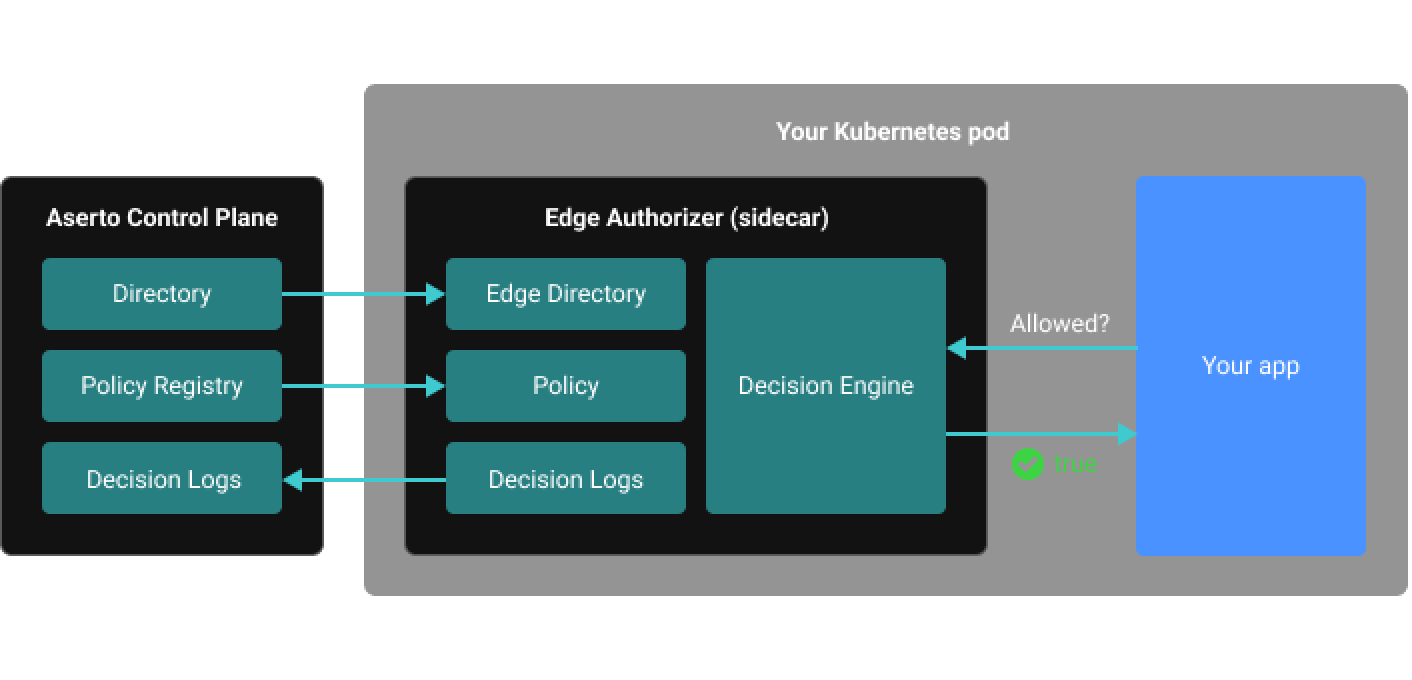
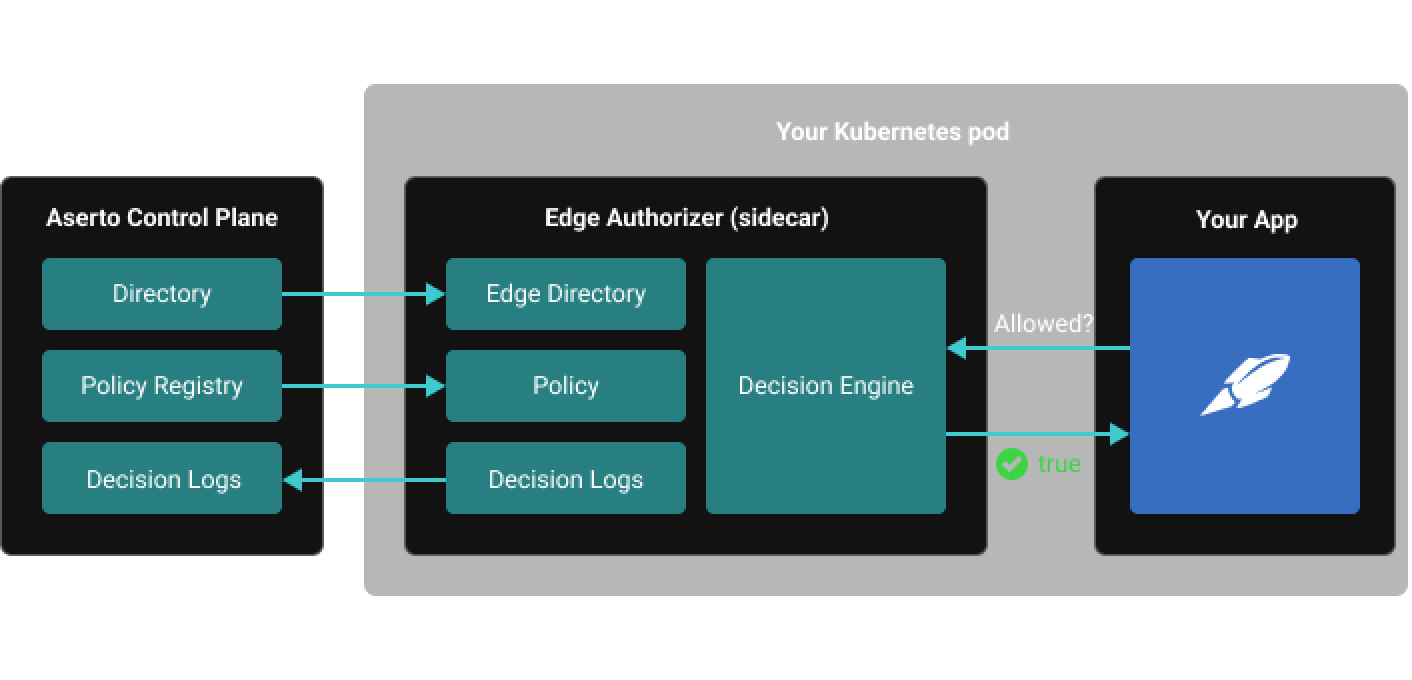
fix display/resizing issues

diff --git a/src/components/sections/homepage/intro2/index.tsx b/src/components/sections/homepage/intro2/index.tsx
@@ -1,3 +1,4 @@
+import Link from 'components/primitives/link'
 import Container from '../container'
 import CodeBrowser from './code-browser.tsx'
 
@@ -8,91 +9,125 @@ const Intro = () => {
         Powerful authorization-as-a-service,
         <br /> built to evolve with your customer requirements.
       </h1>
-      <div className="flex flex-col md:flex-row justify-evenly mb-40 md:mb-72">
-        <div className="md:translate-y-1/3 mb-8">
-          <p className="text-[20px] font-semibold text-center md:text-left mx-4">
-            Zero-to-RBAC in under a day <br />
+      <div className="relative flex flex-col md:flex-row justify-evenly mb-40 md:mb-72 text-[20px] font-semibold">
+        <div className="-z-10 hidden md:block absolute right-0 -top-1/4 w-[500px] h-[500px] bg-homepageGlow"></div>
+        <div className="text-center md:text-left md:translate-y-1/3 mb-8 mx-4">
+          <p>
+            Zero-to-RBAC in under a day <br className="hidden md:block" />
             for any language or framework.
           </p>
+          <Link
+            className="text-aserto-lochivar-accent-40 hover:underline"
+            href="/benefits"
+          >
+            {`Learn more >`}
+          </Link>
         </div>
         <div className="relative">
-          <div className="-z-10 hidden md:block absolute right-1/4 -top-1/4 w-[500px] h-[500px] bg-homepageGlow"></div>
           <CodeBrowser />
         </div>
       </div>
-      <div className="flex flex-col md:flex-row justify-evenly mb-40 md:mb-72">
-        <div className="md:order-2 md:translate-y-1/3 mb-8">
-          <p className="text-[20px] font-semibold text-center md:text-left mx-4">
-            Scale up to enterprise requirements with <br />
-            deep IDP integration, ABAC, fine-grained <br />
+      <div className="relative flex flex-col md:flex-row justify-evenly mb-40 md:mb-72 text-[20px] font-semibold">
+        <div className="-z-10 hidden md:block absolute left-0 -top-1/4 w-[500px] h-[500px] bg-homepageGlow"></div>
+        <div className="text-center md:text-left md:order-2 md:translate-y-1/3 mb-8 mx-4">
+          <p>
+            Scale up to enterprise requirements with{' '}
+            <br className="hidden md:block" />
+            deep IDP integration, ABAC, fine-grained{' '}
+            <br className="hidden md:block" />
             access control, audit trails, and custom roles.
           </p>
+          <Link
+            className="text-aserto-lochivar-accent-40 hover:underline"
+            href="/benefits"
+          >
+            {`Learn more >`}
+          </Link>
         </div>
         <div className="relative md:order-1">
-          <div className="-z-10 hidden md:block absolute left-1/4 -top-1/4 w-[500px] h-[500px] bg-homepageGlow"></div>
-          <img
-            className="relative w-[700px]"
-            src="images/homepage/elastic-rego.png"
-          />
+          <img className="w-[700px]" src="images/homepage/elastic-rego.png" />
         </div>
       </div>
-      <div className="flex flex-col md:flex-row justify-evenly mb-40 md:mb-72">
-        <div className="md:translate-y-1/3 mb-8">
-          <p className="text-[20px] font-semibold text-center md:text-left mx-4">
-            Deploy the authorizer as a sidecar or <br />
-            microservice in your cloud, providing <br />
+      <div className="relative flex flex-col md:flex-row justify-evenly mb-40 md:mb-72 text-[20px] font-semibold">
+        <div className="-z-10 hidden md:block absolute right-0 -top-1/4 w-[500px] h-[500px] bg-homepageGlow"></div>
+        <div className="text-center md:text-left md:translate-y-1/3 mb-8 mx-4">
+          <p>
+            Deploy the authorizer as a sidecar or{' '}
+            <br className="hidden md:block" />
+            microservice in your cloud, providing{' '}
+            <br className="hidden md:block" />
             millisecond latency and 100% availability.
           </p>
+          <Link
+            className="text-aserto-lochivar-accent-40 hover:underline"
+            href="/benefits"
+          >
+            {`Learn more >`}
+          </Link>
         </div>
         <div className="relative">
-          <div className="-z-10 hidden md:block absolute right-1/4 -top-1/4 w-[500px] h-[500px] bg-homepageGlow"></div>
-          <img
-            className="relative w-[700px]"
-            src="images/homepage/kubernetes-pod.png"
-          />
+          <img className="w-[700px]" src="images/homepage/kubernetes-pod.png" />
         </div>
       </div>
-      <div className="flex flex-col md:flex-row justify-evenly mb-40 md:mb-72">
-        <div className="md:order-2 md:translate-y-1/3 mb-8">
-          <p className="text-[20px] font-semibold text-center md:text-left mx-4">
-            Integrate with your identity provider, <br />
+      <div className="relative flex flex-col md:flex-row justify-evenly mb-40 md:mb-72 text-[20px] font-semibold">
+        <div className="-z-10 hidden md:block absolute left-0 -top-1/4 w-[500px] h-[500px] bg-homepageGlow"></div>
+        <div className="text-center md:text-left md:order-2 md:translate-y-1/3 mb-8 mx-4">
+          <p>
+            Integrate with your identity provider,{' '}
+            <br className="hidden md:block" />
             artifact registry, logging system, tech stack.
           </p>
+          <Link
+            className="text-aserto-lochivar-accent-40 hover:underline"
+            href="/benefits"
+          >
+            {`Learn more >`}
+          </Link>
         </div>
         <div className="relative md:order-1">
-          <div className="-z-10 hidden md:block absolute left-1/4 -top-1/4 w-[500px] h-[500px] bg-homepageGlow"></div>
           <img
-            className="relative w-[700px]"
+            className="w-[700px]"
             src="images/homepage/aserto-control-plane.png"
           />
         </div>
       </div>
-      <div className="flex flex-col md:flex-row justify-evenly mb-40 md:mb-72">
-        <div className="md:translate-y-1/3 mb-8">
-          <p className="text-[20px] font-semibold text-center md:text-left mx-4">
-            Open source authorizer based on LF/CNCF <br />
+      <div className="relative flex flex-col md:flex-row justify-evenly mb-40 md:mb-72 text-[20px] font-semibold">
+        <div className="-z-10 hidden md:block absolute right-0 -top-1/4 w-[500px] h-[500px] bg-homepageGlow"></div>
+        <div className="text-center md:text-left md:translate-y-1/3 mb-8 mx-4">
+          <p>
+            Open source authorizer based on LF/CNCF{' '}
+            <br className="hidden md:block" />
             Projects such as OPA, OCI, and Sigstore.
           </p>
+          <Link
+            className="text-aserto-lochivar-accent-40 hover:underline"
+            href="/benefits"
+          >
+            {`Learn more >`}
+          </Link>
         </div>
         <div className="relative">
-          <div className="-z-10 hidden md:block absolute right-1/4 -top-1/4 w-[500px] h-[500px] bg-homepageGlow"></div>
-          <img
-            className="relative w-[700px]"
-            src="images/homepage/authorizer.png"
-          />
+          <img className="w-[700px]" src="images/homepage/authorizer.png" />
         </div>
       </div>
-      <div className="flex flex-col md:flex-row justify-evenly mb-40 md:mb-72">
-        <div className="md:order-2 md:translate-y-1/3 mb-8">
-          <p className="text-[20px] font-semibold text-center md:text-left mx-4">
-            Leverage familiar container workflows, <br />
+      <div className="relative flex flex-col md:flex-row justify-evenly mb-40 md:mb-72 text-[20px] font-semibold">
+        <div className="-z-10 hidden md:block absolute left-0 -top-1/4 w-[500px] h-[500px] bg-homepageGlow"></div>
+        <div className="text-center md:text-left md:order-2 md:translate-y-1/3 mb-8 mx-4">
+          <p>
+            Leverage familiar container workflows,{' '}
+            <br className="hidden md:block" />
             policy-as-code, and GitOps best practices.
           </p>
+          <Link
+            className="text-aserto-lochivar-accent-40 hover:underline"
+            href="/benefits"
+          >
+            {`Learn more >`}
+          </Link>
         </div>
         <div className="relative md:order-1">
-          <div className="-z-10 hidden md:block absolute left-1/4 -top-1/4 w-[500px] h-[500px] bg-homepageGlow"></div>
           <img
-            className="relative w-[700px]"
+            className="w-[700px]"
             src="images/homepage/source-code-workflows.png"
           />
         </div>
